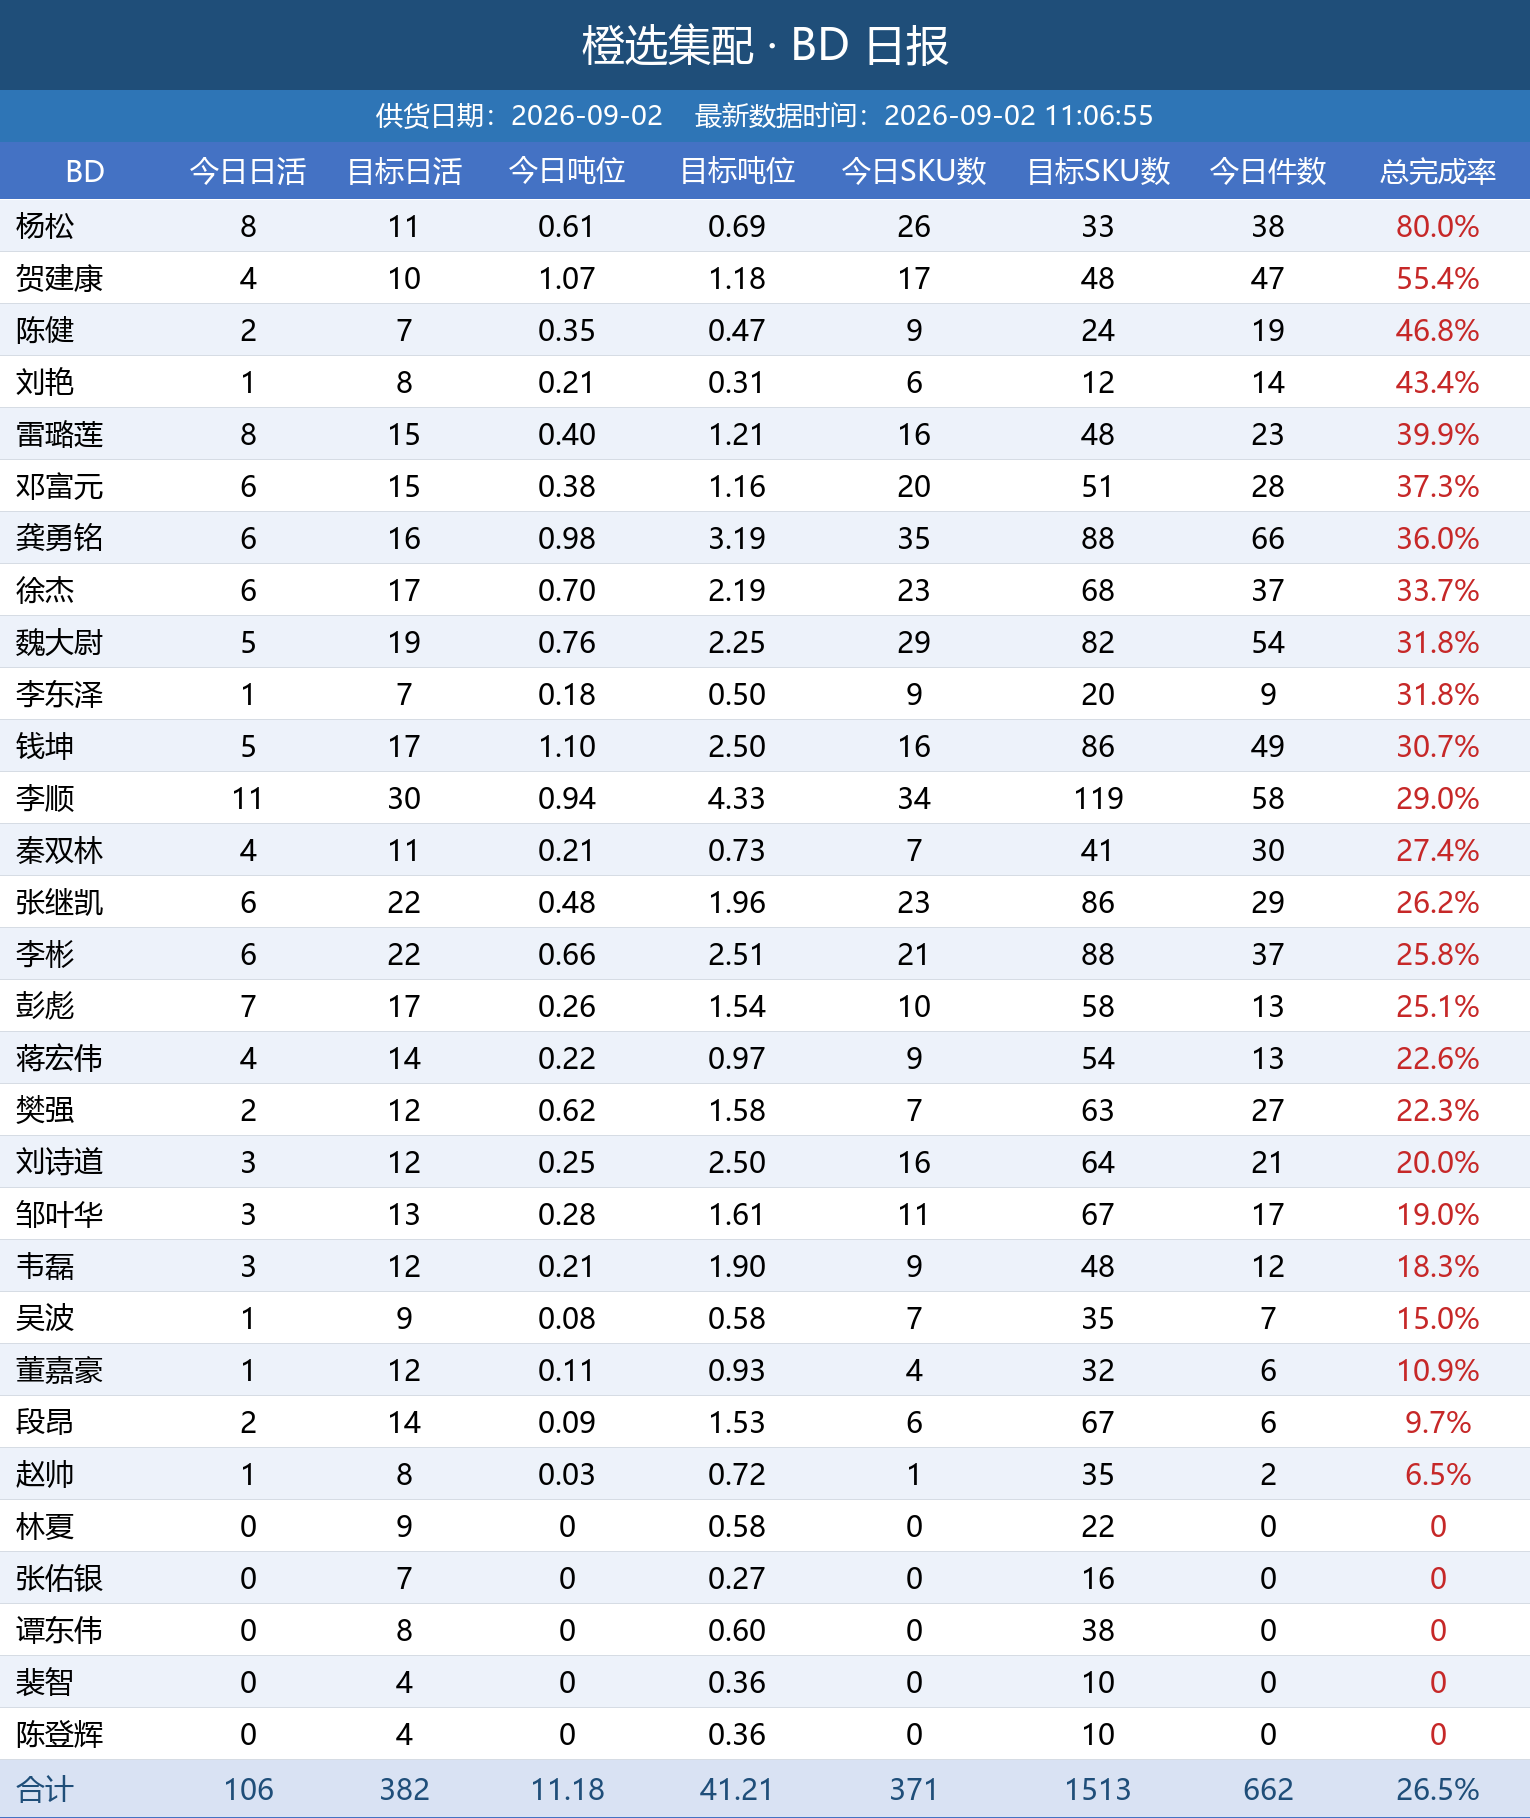
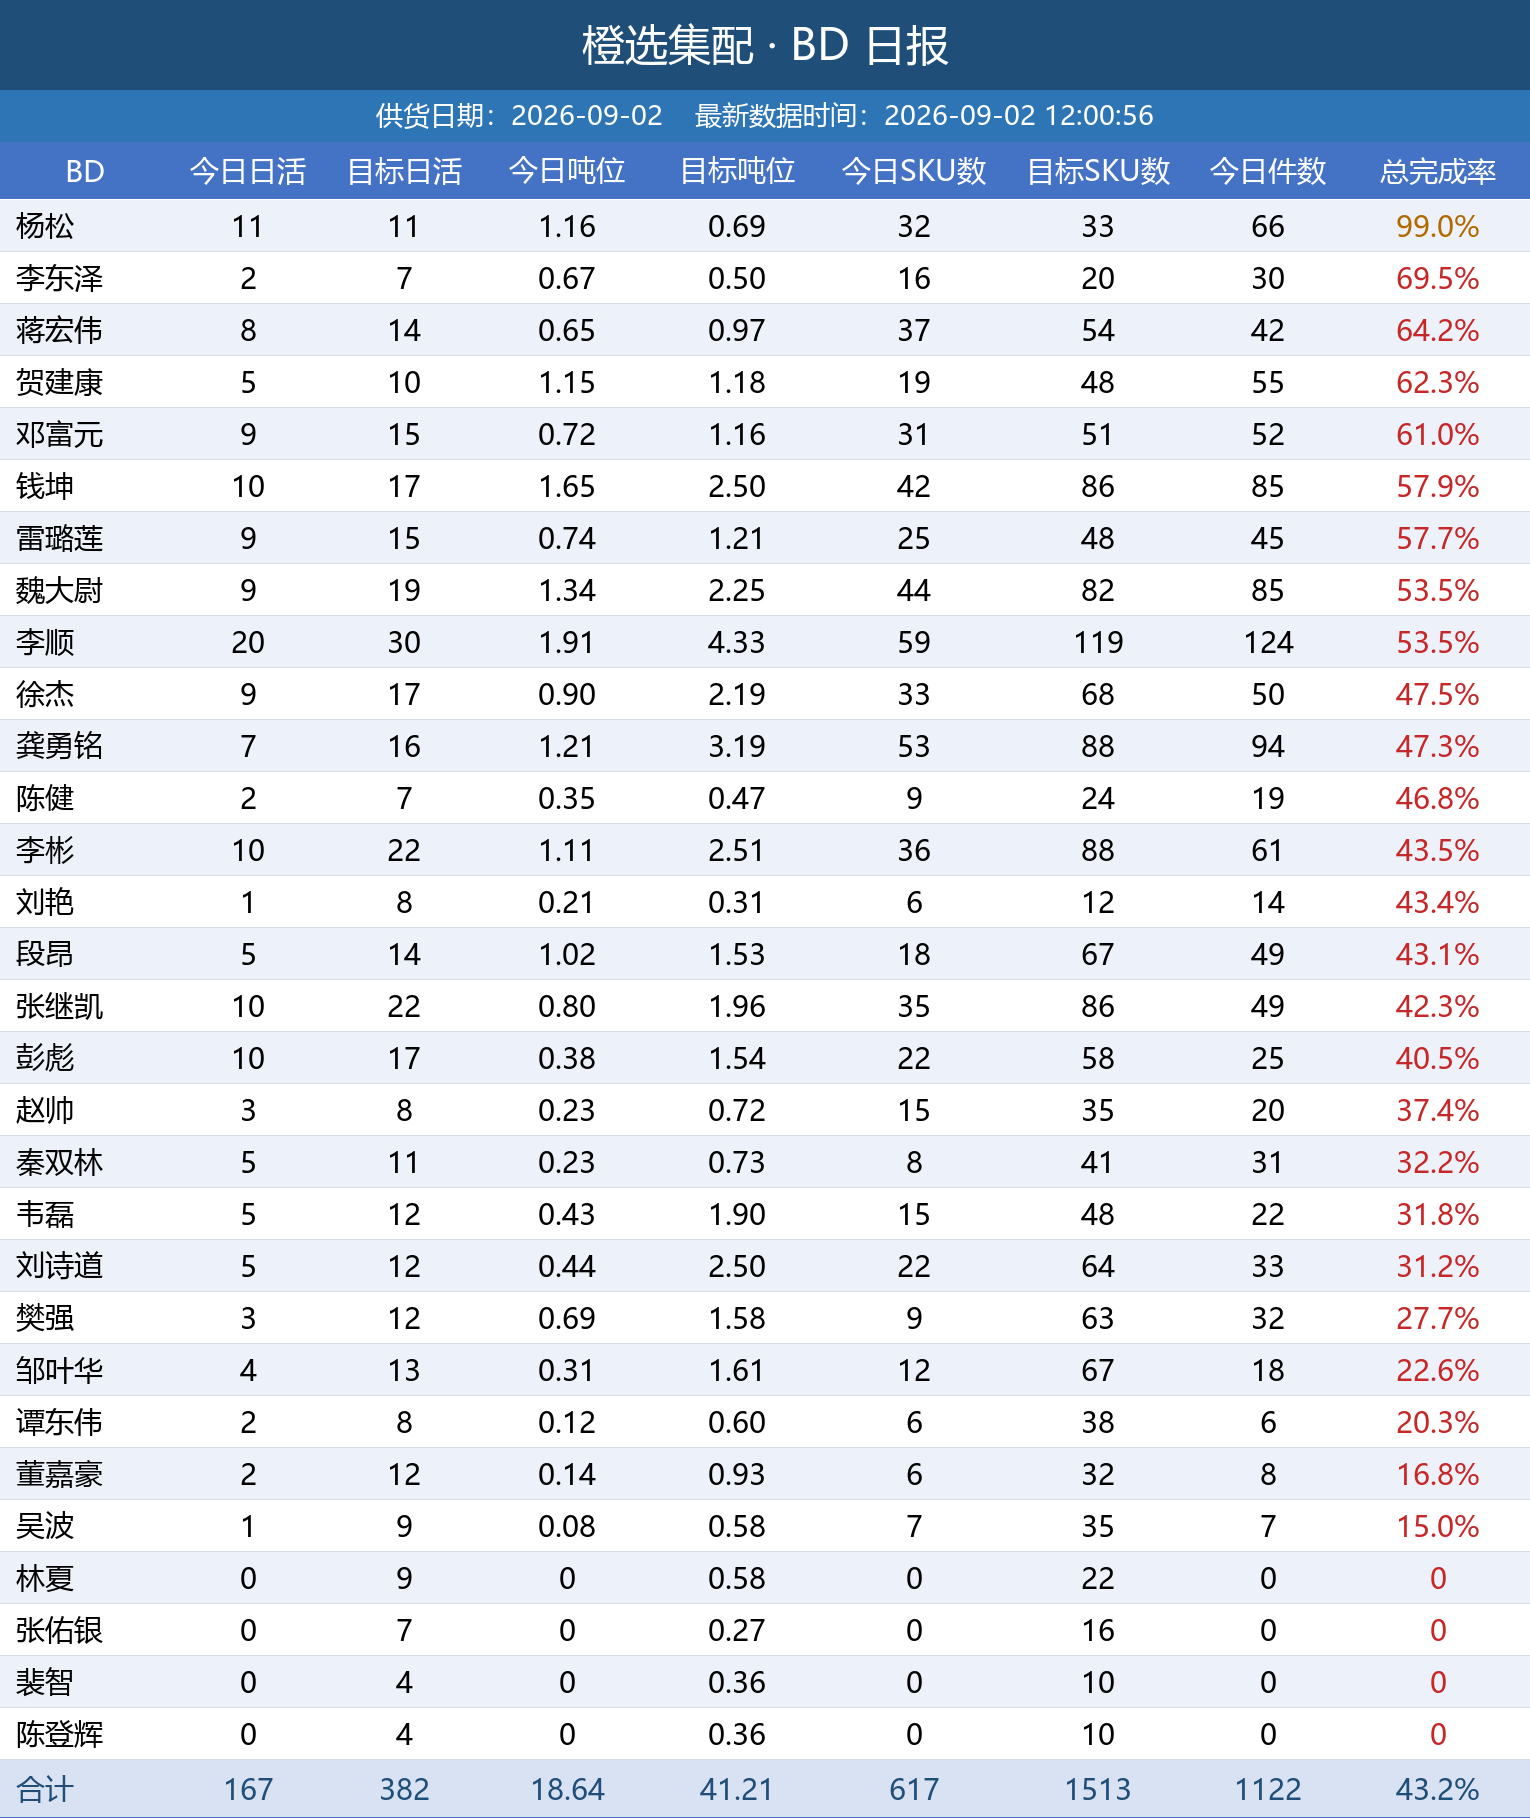
自动更新日报图片

diff --git a/index.html b/index.html
@@ -11,7 +11,7 @@ img { max-width: 100%; border: 1px solid #e5e5e5; margin-bottom: 24px; display: 
 </style>
 </head>
 <body>
-<h1>橙选集配日报图片（20260902_110702）</h1>
+<h1>橙选集配日报图片（20260902_120101）</h1>
 <img src="bd_latest.png" alt="BD 日报">
 <img src="wh_latest.png" alt="城市仓日报">
 <img src="zs_latest.png" alt="招商日报">
